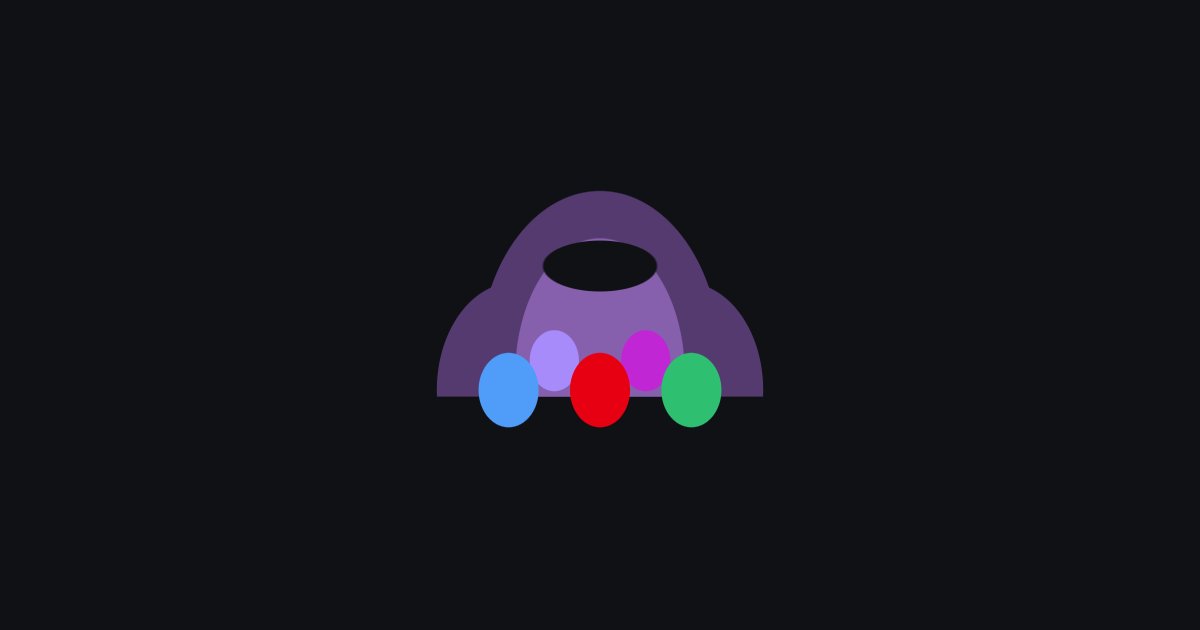
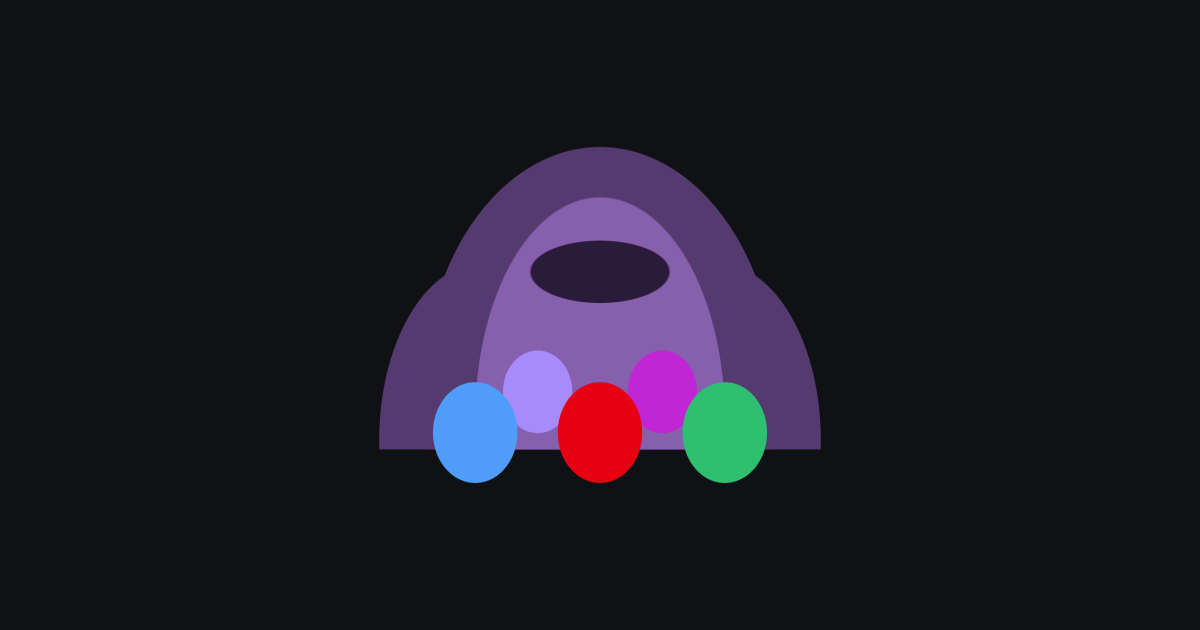
Icono: sin fondo y encajado en el cuadro
La pastilla oscura venia del 2x2 y dejaba la silueta ocupando poco mas de
media casilla. El favicon y los dos PNG del manifest van ahora transparentes,
que ademas es lo que toca en una pestana clara.

Eso obliga a dos cosas: la abertura pasa a tener tinta propia (del color del
fondo era una mancha oscura flotando sobre lo que hubiera detras), y el
maskable y el de Apple se quedan opacos, porque Android le aplica su forma al
primero e iOS rellena de negro la transparencia del segundo.

Y el dibujo se encaja en vez de medirse en fracciones del lado: el ancho
depende de cuantas secciones haya, asi que ninguna medida fija podia valer
para todos los casos. El marco se mide con el suelo puesto, o el dibujo sale
pequeno y subido.

De paso, proporciones: cuerpo menos puntiagudo, boca mas pequena y con aro de
domo alrededor, y los huevos colgando menos de la base.

Changed region(s): [[0.3083, 0.2111, 0.7092, 0.7841]]

diff --git a/scripts/iconos.py b/scripts/iconos.py
@@ -29,6 +29,12 @@ cortada por la linea del suelo: es lo unico que los dos formatos saben pintar
 identico sin aproximar nada, por distancia al borde en el PNG y con <ellipse>
 y un <clipPath> en el SVG. Una curva mas libre obligaria a rasterizar poligonos
 aqui y a escribir bezieres alli, que es justo la divergencia que se evita.
+
+formas() dibuja en sus propias coordenadas y encajar() lo lleva al lienzo, en
+vez de escribir las medidas como fracciones del lado. Asi el dibujo llena
+siempre el cuadro: al quitarle el fondo se noto que sobraba un cuarto del alto,
+y sobre todo el ancho depende de cuantas secciones haya, que es lo que ninguna
+medida fija podia saber.
 """
 
 import json
@@ -43,17 +49,27 @@ CSS = RAIZ / "assets" / "estilo.css"
 ASSETS = RAIZ / "assets"
 LISTA = ASSETS / "secciones.json"
 
-# Los dos tonos del monticulo. Estos si viven aqui y no en estilo.css, al reves
-# que los de los huevos: no los usa ninguna pagina, son solo del icono. Van en
+# Los tonos del monticulo. Estos si viven aqui y no en estilo.css, al reves que
+# los de los huevos: no los usa ninguna pagina, son solo del icono. Van en
 # ciruela desaturado para que ningun acento de seccion se pierda encima, y no
-# mas oscuros porque sobre el fondo (#0f1115) la silueta se emborrona a 32 px.
+# mas oscuros porque sobre un fondo oscuro la silueta se emborrona a 32 px.
 CUPULA = (0x55, 0x3a, 0x70)
 CUPULA_LUZ = (0x86, 0x5f, 0xad)
+# La abertura ya no puede ser del color del fondo, porque los iconos que mas se
+# ven ya no tienen fondo: sobre una pestana en tema claro esa elipse se veria
+# como una mancha oscura fuera de sitio. Es un ciruela casi negro, que se lee
+# como un agujero contra el blanco y contra el negro, y que ademas sigue
+# valiendo en los dos iconos que si van opacos.
+BOCA = (0x2a, 0x1b, 0x3a)
 
 # A partir de aqui los huevos son mas finos que un pixel en la pestana. No es
 # un limite tecnico, es que dejarian de leerse; el dia que llegue hay que
 # decidir el dibujo, igual que paso con el 2x2.
 MAXIMO_HUEVOS = 8
+
+# El aire alrededor del dibujo en los iconos sin fondo. Es pequeno a proposito:
+# sin la pastilla oscura detras, el margen no separa de nada, solo encoge.
+MARGEN = 0.04
 
 
 def acentos():
@@ -94,17 +110,14 @@ def elipse(cx, cy, rx, ry, tinta, suelo=None):
             "suelo": suelo}
 
 
-def formas(lado, colores, fondo, margen):
-    """El dibujo entero, en orden de pintado. La unica fuente: de aqui salen
-    los PNG y el SVG.
+def formas(colores):
+    """El dibujo entero, en orden de pintado y en coordenadas propias.
 
-    Las medidas van en fracciones de la zona util para que el mismo dibujo
-    valga a 32 y a 512 px, y para que el margen extra del icono maskable no
-    obligue a recolocar nada.
+    La unica fuente: de aqui salen los PNG y el SVG. Las medidas son sobre 100
+    y no sobre el lado del icono porque quien las lleva al lienzo es encajar().
     """
-    util = lado * (1 - 2 * margen)
-    cx = lado / 2
-    suelo = lado * margen + util * 0.75
+    suelo = 75.0
+    cx = 50.0
 
     piezas = []
 
@@ -112,41 +125,61 @@ def formas(lado, colores, fondo, margen):
     # sola elipse cortada por el suelo la silueta sale como un arco de circo
     # perfecto, que se lee antes como un arcoiris que como algo vivo.
     for costado in (-1, 1):
-        piezas.append(elipse(cx + costado * util * 0.26, suelo - util * 0.02,
-                             util * 0.24, util * 0.33, CUPULA, suelo))
+        piezas.append(elipse(cx + costado * 24.0, suelo - 2.0, 22.0, 37.0,
+                             CUPULA, suelo))
 
     piezas += [
         # El cuerpo, mas alto y estrecho que los hombros. Todas van cortadas
         # por la linea del suelo: es el corte lo que les da base plana.
-        elipse(cx, suelo - util * 0.11, util * 0.37, util * 0.52, CUPULA,
-               suelo),
+        elipse(cx, suelo - 11.0, 37.0, 52.0, CUPULA, suelo),
         # El domo interior, que es todo el volumen que hace falta: dos tonos
         # planos se leen a 32 px y un degradado no.
-        elipse(cx, suelo - util * 0.065, util * 0.26, util * 0.42, CUPULA_LUZ,
-               suelo),
-        # La abertura, ancha y en el tercio alto. Estrecha se lee a 32 px como
-        # un mordisco en el contorno y no como un agujero, que es la diferencia
-        # entre un monticulo y un criadero; probadas las dos, gana esta.
-        # Del color del fondo y no de un tono mas oscuro, para que siga siendo
-        # un agujero en el icono de Apple y en el maskable, que van opacos.
-        elipse(cx, suelo - util * 0.40, util * 0.175, util * 0.078, fondo),
+        elipse(cx, suelo - 6.5, 26.0, 46.0, CUPULA_LUZ, suelo),
+        # La abertura, ancha, achatada y con aro de cupula por encima. Las tres
+        # cosas se decidieron mirandola a 16, 24, 32 y 48 px: estrecha se lee
+        # como un mordisco en el contorno y no como un agujero, y pegada al
+        # borde de arriba deja una franja fina que convierte el conjunto en el
+        # asa de un bolso.
+        elipse(cx, suelo - 37.0, 14.5, 6.5, BOCA),
     ]
 
     # Un huevo por seccion, repartido en dos filas: los pares delante y los
     # impares asomando entre ellos. Repartir en vez de alinearlos deja los
     # huevos al doble de tamano, que a 32 px es la diferencia entre una mancha
     # de color y nada.
-    paso = util * 0.28
-    rx, ry = util * 0.092, util * 0.114
+    paso, rx, ry = 26.0, 8.8, 10.5
     filas = (
-        (colores[1::2], 0.82, suelo - util * 0.11),
-        (colores[0::2], 1.00, suelo - util * 0.02),
+        (colores[1::2], 0.82, suelo - 12.0),
+        (colores[0::2], 1.00, suelo - 3.5),
     )
     for tintas, escala, cy in filas:
         for i, tinta in enumerate(tintas):
             x = cx + (i - (len(tintas) - 1) / 2) * paso
             piezas.append(elipse(x, cy, rx * escala, ry * escala, tinta))
     return piezas
+
+
+def encajar(piezas, lado, margen):
+    """Escala y centra el dibujo para que llene el lienzo.
+
+    El alto se mide con el suelo puesto: las elipses cortadas no llegan hasta
+    donde llegaria su radio, y sin tenerlo en cuenta el dibujo saldria pequeno
+    y subido.
+    """
+    izq = min(p["cx"] - p["rx"] for p in piezas)
+    der = max(p["cx"] + p["rx"] for p in piezas)
+    alto = min(p["cy"] - p["ry"] for p in piezas)
+    bajo = max(min(p["cy"] + p["ry"], p["suelo"]) if p["suelo"] is not None
+               else p["cy"] + p["ry"] for p in piezas)
+
+    escala = lado * (1 - 2 * margen) / max(der - izq, bajo - alto)
+    dx = (lado - (der - izq) * escala) / 2 - izq * escala
+    dy = (lado - (bajo - alto) * escala) / 2 - alto * escala
+    return [elipse(p["cx"] * escala + dx, p["cy"] * escala + dy,
+                   p["rx"] * escala, p["ry"] * escala, p["tinta"],
+                   None if p["suelo"] is None
+                   else p["suelo"] * escala + dy)
+            for p in piezas]
 
 
 def cobertura(px, py, pieza):
@@ -168,25 +201,22 @@ def cobertura(px, py, pieza):
     return cubre
 
 
-def dentro(px, py, cx, cy, lado, radio):
-    """Lo mismo para el cuadrado redondeado del fondo."""
-    dx = max(abs(px - cx) - (lado / 2 - radio), 0)
-    dy = max(abs(py - cy) - (lado / 2 - radio), 0)
-    return min(max(0.5 - (math.hypot(dx, dy) - radio), 0), 1)
+def mezclar(debajo, encima, cubre):
+    return tuple(round(f + (e - f) * cubre) for f, e in zip(debajo, encima))
 
 
-def mezclar(fondo, encima, cubre):
-    return tuple(round(f + (e - f) * cubre) for f, e in zip(fondo, encima))
-
-
-def dibujar(lado, colores, fondo, margen, radio_fondo, con_fondo=True):
-    """Devuelve las filas del icono en RGBA."""
-    piezas = formas(lado, colores, fondo, margen)
+def dibujar(lado, colores, margen=MARGEN, fondo=None):
+    """Devuelve las filas del icono en RGBA. Sin fondo, el icono es la silueta
+    recortada y lo de detras es transparente."""
+    piezas = encajar(formas(colores), lado, margen)
     # El marco de cada pieza, para no calcular una distancia por pixel y pieza:
-    # a 512 px son dos millones y medio de cuentas que casi siempre dan cero.
+    # a 512 px son cinco millones de cuentas que casi siempre dan cero.
     marcos = [(p["cx"] - p["rx"] - 1, p["cx"] + p["rx"] + 1,
                p["cy"] - p["ry"] - 1, p["cy"] + p["ry"] + 1) for p in piezas]
-    centro = lado / 2
+    # Lo de debajo de la silueta cuando no hay fondo. El color da igual mientras
+    # el alfa sea cero, pero no puede ser negro: al mezclarse en el medio pixel
+    # del borde dejaria un halo sucio alrededor de todo el dibujo.
+    vacio = fondo or CUPULA
 
     filas = []
     for y in range(lado):
@@ -196,12 +226,7 @@ def dibujar(lado, colores, fondo, margen, radio_fondo, con_fondo=True):
                     if m[2] <= py <= m[3]]
         for x in range(lado):
             px = x + 0.5
-
-            if con_fondo:
-                alfa = dentro(px, py, centro, centro, lado, radio_fondo)
-            else:
-                alfa = 1.0
-            pixel = fondo
+            pixel, alfa = vacio, 1.0 if fondo else 0.0
 
             for pieza, marco in visibles:
                 if not marco[0] <= px <= marco[1]:
@@ -230,12 +255,12 @@ def escribir_png(ruta, ancho, alto, filas):
     print(f"  {ruta.relative_to(RAIZ)}  ({len(png) // 1024 or 1} KB)")
 
 
-def svg(colores, fondo):
+def svg(colores, margen=MARGEN):
     """El favicon, en vectorial: a 16 px un PNG se ve sucio y este no."""
-    lado, margen = 512, 0.14
-    piezas = formas(lado, colores, fondo, margen)
-    # Las dos piezas recortadas comparten la misma linea de suelo, asi que
-    # basta un clip para las dos.
+    lado = 512
+    piezas = encajar(formas(colores), lado, margen)
+    # Las tres piezas recortadas comparten la misma linea de suelo, asi que
+    # basta un clip para las tres.
     suelo = next(p["suelo"] for p in piezas if p["suelo"] is not None)
 
     salida = [
@@ -244,8 +269,6 @@ def svg(colores, fondo):
         '  <defs><clipPath id="suelo">'
         '<rect x="0" y="0" width="%d" height="%.1f"/></clipPath></defs>'
         % (lado, suelo),
-        '  <rect width="%d" height="%d" rx="114" fill="#%02x%02x%02x"/>'
-        % (lado, lado, *fondo),
     ]
     for p in piezas:
         recorte = ' clip-path="url(#suelo)"' if p["suelo"] is not None else ""
@@ -263,11 +286,11 @@ def compartir(ancho, alto, colores, fondo):
     Sin texto: dibujar letras a mano con rectangulos queda peor que no
     ponerlas, y el titulo y la descripcion ya salen al lado como texto.
     """
-    # Sin fondo redondeado propio: aqui el fondo ya lo pone el lienzo, y un
-    # cuadrado redondeado encima deja sus cuatro esquinas transparentes, que
-    # es lo que salia como manchas blancas al componerlo.
-    marca = 340
-    filas_marca = dibujar(marca, colores, fondo, 0.02, 0, con_fondo=False)
+    # Esta va opaca: una previsualizacion con transparencia se compone contra
+    # lo que decida cada aplicacion, y ahi el fondo de la web es la respuesta
+    # buena. Como el dibujo ya no lleva pastilla redondeada, se pega sin mas.
+    marca = 460
+    filas_marca = dibujar(marca, colores, 0.02, fondo)
     izquierda = (ancho - marca) // 2
     arriba = (alto - marca) // 2
 
@@ -295,24 +318,28 @@ def main():
     print("  --fondo    #%02x%02x%02x" % fondo)
     print()
 
-    (ASSETS / "icono.svg").write_text(svg(colores, fondo), encoding="utf-8")
+    # El favicon y los dos del manifest van sin fondo: el icono es la silueta,
+    # no una pastilla oscura, que en una pestana o un escritorio claros se ve
+    # como un parche pegado.
+    (ASSETS / "icono.svg").write_text(svg(colores), encoding="utf-8")
     print("  assets/icono.svg")
 
-    # Los dos del manifest y el de Apple: fondo redondeado, como se ve en la
-    # pantalla de inicio.
     for lado in (192, 512):
         escribir_png(ASSETS / f"icono-{lado}.png", lado, lado,
-                     dibujar(lado, colores, fondo, 0.14, lado * 0.22))
+                     dibujar(lado, colores))
 
-    # iOS redondea el icono el solo y no lleva bien la transparencia, asi que
-    # este va cuadrado y opaco.
+    # iOS redondea el icono el solo y no lleva bien la transparencia: se la
+    # rellena de negro. Asi que este va cuadrado y opaco, y con algo mas de
+    # margen porque el redondeo se come las esquinas.
     escribir_png(ASSETS / "icono-180.png", 180, 180,
-                 dibujar(180, colores, fondo, 0.17, 0, con_fondo=False))
+                 dibujar(180, colores, 0.10, fondo))
 
-    # Android recorta los "maskable" a un circulo y solo garantiza el 80%
-    # central: el dibujo va mas pequeno para que no le corte una esquina.
+    # El maskable tambien va opaco de borde a borde, y por lo mismo: Android le
+    # aplica su propia forma y una esquina transparente se veria recortada.
+    # Ademas solo garantiza el 80% central, asi que el dibujo va mas pequeno
+    # para que el recorte circular no le corte los hombros.
     escribir_png(ASSETS / "icono-maskable-512.png", 512, 512,
-                 dibujar(512, colores, fondo, 0.26, 0, con_fondo=False))
+                 dibujar(512, colores, 0.20, fondo))
 
     escribir_png(ASSETS / "og.png", 1200, 630,
                  compartir(1200, 630, colores, fondo))

diff --git a/CLAUDE.md b/CLAUDE.md
@@ -1472,20 +1472,50 @@ Cinco cosas que hay que saber antes de tocar el dibujo:
   decidieron mirandolas a 16, 24, 32 y 48 px, que es donde se usa el icono:
   estrecha se lee como un mordisco en el contorno y no como un agujero; alta y
   pegada al borde superior deja una franja fina que convierte el conjunto en el
-  asa de un bolso. Va del color del fondo y no de un tono mas oscuro, para que
-  siga siendo un agujero en el icono de Apple y en el maskable, que van opacos.
+  asa de un bolso. Su color es cosa aparte y esta mas abajo, con lo del fondo
+  transparente.
 
 La leccion es la de siempre en este proyecto, aplicada al diseno: **el icono se
 juzga al tamano al que se usa, no a 512 px**. Las tres correcciones de arriba se
 veian todas en la tira de 16 a 48 px y ninguna en el grande.
 
+### Sin fondo, y encajado en el cuadro (30-08-2026)
+
+El icono nacio con una pastilla oscura redondeada detras, heredada del 2x2, y
+con eso se veia pequeno: entre el margen y el aire que dejaba un dibujo
+apaisado, la silueta ocupaba poco mas de la mitad del cuadro. Ahora **el
+favicon y los dos PNG del manifest van con fondo transparente**, que ademas es
+lo correcto en una pestana o un escritorio claros, donde la pastilla se ve como
+un parche pegado.
+
+Tres cosas que eso arrastra, y ninguna es opcional:
+
+- **La abertura ya no puede ser del color del fondo.** Lo era, y funcionaba
+  mientras hubiera pastilla; sin ella, esa elipse #0f1115 se convierte en una
+  mancha oscura flotando sobre lo que haya detras. Es su propio tono
+  (`BOCA`), un ciruela oscuro que se lee como agujero contra el blanco y contra
+  el negro, y que sigue valiendo en los dos iconos que si van opacos.
+- **El maskable y el de Apple siguen opacos, y no por descuido.** Android le
+  aplica su forma al maskable y una esquina transparente se veria recortada;
+  iOS directamente rellena de negro la transparencia. Son los dos unicos
+  ficheros con fondo, y por eso el dibujo tiene que quedar bien de las dos
+  maneras.
+- **El dibujo se encaja, no se mide en fracciones del lado.** `formas()` dibuja
+  en coordenadas propias y `encajar()` calcula su marco y lo centra y escala
+  hasta llenar el lienzo. Hacia falta porque **el ancho depende de cuantas
+  secciones haya** -cada huevo nuevo ensancha la fila-, o sea que ninguna medida
+  fija podia estar bien para todos los casos. Y el marco se mide con el suelo
+  puesto: las elipses cortadas no llegan adonde llegaria su radio, y sin eso el
+  dibujo sale pequeno y subido.
+
 Cuatro cosas que hay que saber para no romperlo:
 
-- **El "maskable" lleva mas margen que los demas** (26% contra 14%). Android
-  recorta ese icono a un circulo y solo garantiza el 80% central: con el margen
-  normal le cortaria los hombros al monticulo.
+- **El "maskable" lleva mucho mas margen que los demas** (20% contra 4%).
+  Android recorta ese icono a un circulo y solo garantiza el 80% central: con
+  el margen normal le cortaria los hombros al monticulo.
 - **El de Apple va cuadrado y opaco.** iOS redondea el icono el solo y no lleva
-  bien la transparencia: se la rellena de negro.
+  bien la transparencia: se la rellena de negro. Y lleva algo mas de margen que
+  los sueltos (10%) porque ese redondeo se come las esquinas.
 - **`og:image` y `og:url` van en absoluto.** Quien genera la previsualizacion de
   WhatsApp o Telegram no resuelve rutas relativas; con una relativa la imagen
   simplemente no sale. Por eso son las unicas URL del proyecto que llevan el
